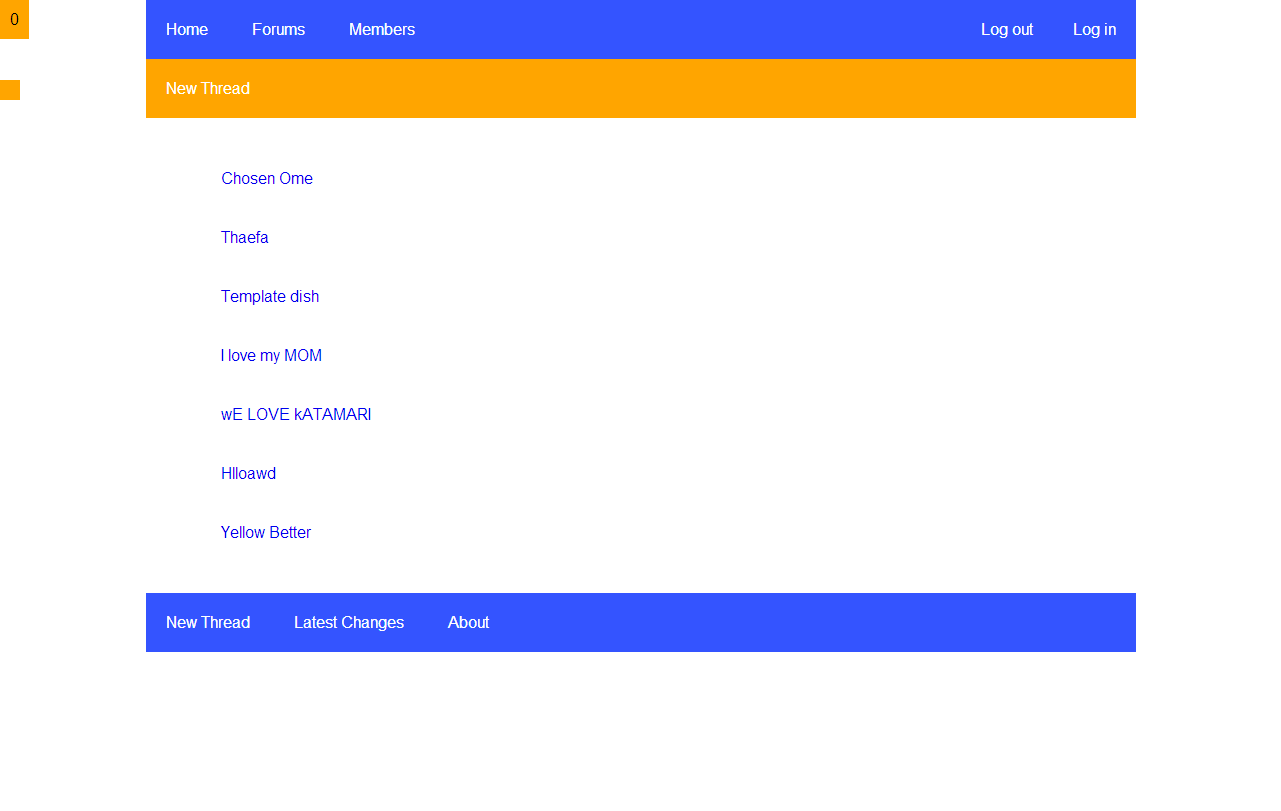
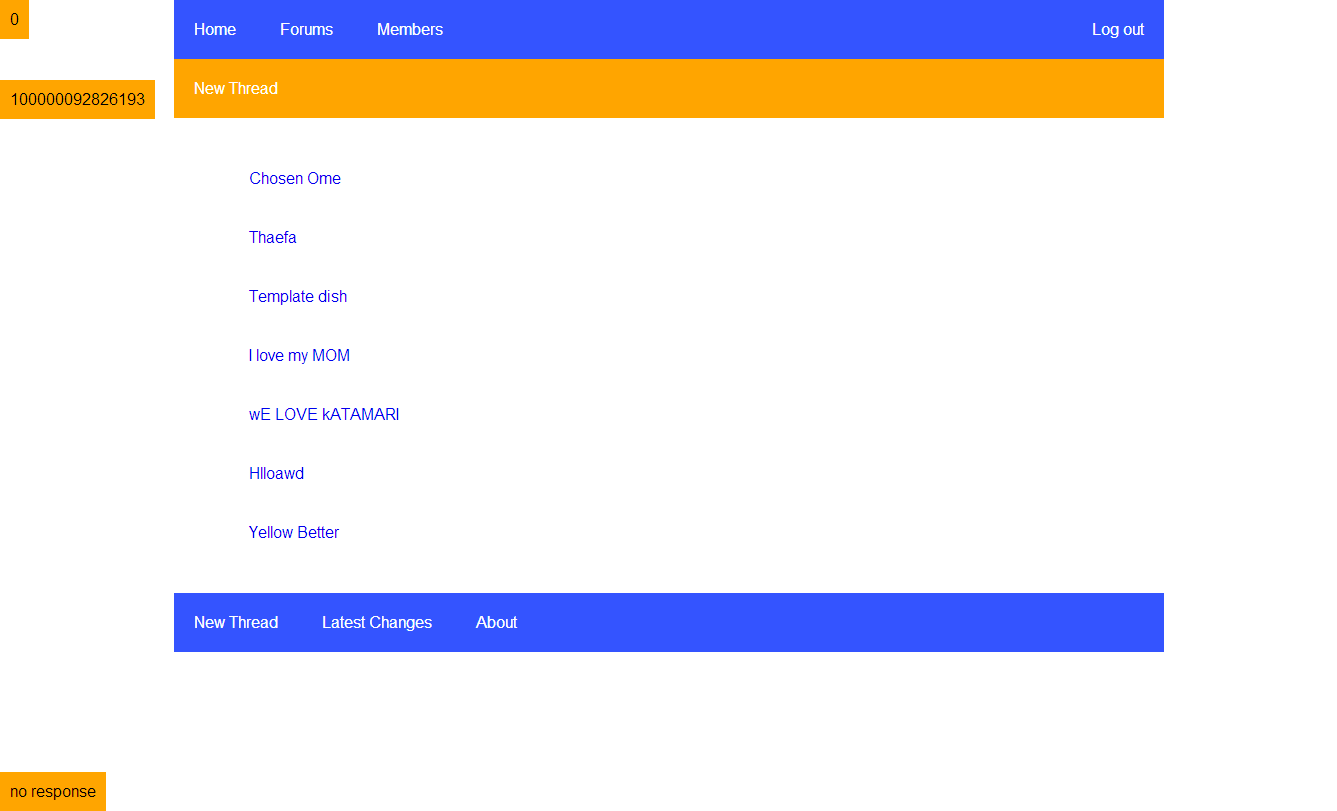
Facebook integration established. Next step is to use user information for posting

diff --git a/php/connect.php b/php/connect.php
@@ -1,35 +1,70 @@
 <?php
+
+// Variables $sqlURL, $sqlUser, $sqlPassword, stored in the passwords.php file
+$connect = mysql_connect($sqlURL, $sqlUser, $sqlPassword) or die ("Could not connect to Database"); 
+
+// Facebook
 require_once("lib/fb/facebook.php");
 
-  $config = array();
-  $config['appId'] = $appId;
-  $config['secret'] = $appSecret;
-  $config['fileUpload'] = false; // optional
+//Check to see if we are already logged into a session
+if(!isset($_SESSION['access_token'])){
+	// If we aren't already logged in
+	// check to see if we pressed the login button and redirected with a OAuth code
+	if(isset($_GET["code"])) {
+		// Variables $appId, $appSecret, $appURL, stored in the passwords.php file
+		$url="https://graph.facebook.com/oauth/access_token?client_id=".$appId."&redirect_uri=".urlencode($appURL)."&client_secret=".$appSecret."&code=".$_GET["code"];
+		
+		// Initiate the curl session
+		$ch = curl_init();
 
-  $facebook = new Facebook($config);
+		// Set the URL
+		curl_setopt($ch, CURLOPT_URL, $url);
 
-if(isset($_GET["code"])) {
-$url="https://graph.facebook.com/oauth/access_token?client_id=".$appId."&redirect_uri=".urlencode($appURL)."&client_secret=".$appSecret."&code=".$_GET["code"];
-	// Initiate the curl session
-	$ch = curl_init();
+		// Allow the headers
+		curl_setopt($ch, CURLOPT_HEADER, true);
 
-	// Set the URL
-	curl_setopt($ch, CURLOPT_URL, $url);
+		// Return the output instead of displaying it directly
+		curl_setopt($ch, CURLOPT_RETURNTRANSFER, true);
 
-	// Allow the headers
-	curl_setopt($ch, CURLOPT_HEADER, true);
+		// Execute the curl session
+		$response = curl_exec($ch);
 
-	// Return the output instead of displaying it directly
-	curl_setopt($ch, CURLOPT_RETURNTRANSFER, true);
+		// Close the curl session
+		curl_close($ch);
 
-	// Execute the curl session
-	$response = curl_exec($ch);
+		//Take away any parts of the response before the access token is defined.
+		$response=explode("access_token=", $response);
 
-	// Close the curl session
-	curl_close($ch);
+		//Check if we have a valid response
+		if(!isset( $response[1] )){
+			$response = "Invalid login code // Please try logging in again.";
+		} else {
+			//$response[1] looks like "{access_token}&expires={seconds til expiration}"
+			//Remove expiration part to get just the access token.
+			$response=explode("&expires=", $response[1]);
 
-	// XML to object
-	//$output = simplexml_load_string($output);
+			//$response[0] is the access_token
+			$response=$response[0];
+
+			//Set the session access_token
+			$_SESSION['access_token'] = $response;
+			//We are now logged in
+			$logged_in = true;
+		}
+	}
+} else {
+	// We are logged in
+	$logged_in = true;
+
+	// Initiallize facebook
+	$config = array();
+	// Variables $appId and $appSecret are stored in the passwords.php file
+	$config['appId'] = $appId;
+	$config['secret'] = $appSecret;
+	$config['fileUpload'] = false; // optional
+	$facebook = new Facebook($config);
+
+	// Set the access_token for facebook api to use
+	$facebook->setAccessToken($_SESSION['access_token']);
 }
-
-$connect = mysql_connect($sqlURL, $sqlUser, $sqlPassword) or die ("Could not connect to Database"); ?>
+?>

diff --git a/index.php b/index.php
@@ -1,8 +1,12 @@
 <?php
 // 1 = compose thread
 // 2 = post thread
-// 3 = signin
+// 3 = signout
 require_once("php/passwords.php"); // Password variables file
+
+session_start();
+
+$logged_in = false;
 
 $response = "no response";
 include 'php/connect.php';
@@ -35,7 +39,9 @@ if( isset( $_POST["a"] )) {
       header('Location: index.php');
       break;
     case 3:
-      // Sign in
+      // Sign out
+      session_destroy();
+      header('Location: index.php');
       break;
   }
 
@@ -66,7 +72,8 @@ if( isset( $_POST["a"] )) {
     </head>
     <body>
     <span class="info"><?php echo $a; ?></span>
-    <span class="info" style="bottom:0"><?php echo $response ?></span>
+    <span class="info" style="bottom:0"><?php echo $response; ?></span>
+    <span class="info" style="top:80px"><?php if(isset($facebook)) {echo $facebook->getUser();} else {echo "You are not logged in";} ?></span>
         <?php include 'php/header.php'; ?>
         <?php include $body_content; ?>
         <?php include 'php/footer.php'; ?>

diff --git a/php/header.php b/php/header.php
@@ -10,6 +10,19 @@ function act(a){
 	<a href="/" class="ribbon-btn">Home</a>
 	<a href="/" class="ribbon-btn">Forums</a>
 	<a href="/" class="ribbon-btn">Members</a>
-	<a href="https://www.facebook.com/dialog/oauth?client_id=<?php echo $appId;?>&redirect_uri=<?php echo urlencode( $appURL );?>" class="ribbon-btn fr">Log in</a>
-	<a href="#" onclick="" class="ribbon-btn fr">Log out</a>
+	<?php
+		// Check if we are logged in
+		if(!$logged_in) { 
+			// If not logged in, show log in button.
+			$log_href = "https://www.facebook.com/dialog/oauth?client_id=".$appId."&redirect_uri=".urlencode( $appURL );
+			$log_onclick = "";
+			$log_text = "Log in";
+		} else {
+			// If already logged in, show log out button.
+			$log_href = "#";
+			$log_onclick = "act(3);";
+			$log_text = "Log out";
+		}
+		echo '<a href="'.$log_href.'"onclick="'.$log_onclick.'"class="ribbon-btn fr">'.$log_text.'</a>';
+	?>
 </div>

diff --git a/php/thread-list.php b/php/thread-list.php
@@ -3,9 +3,12 @@
 .thread-link {padding:20px;display:block;text-decoration: none;}
 .thread-link:hover {text-decoration: underline;}
 </style>
-<div class="container o">
-			<a href="#" onclick="act(1);" class="ribbon-btn">New Thread</a>
-			</div>
+<?php // If we are logged in, display thread creation tools
+if($logged_in) {?>
+	<div class="container o">
+		<a href="#" onclick="act(1);" class="ribbon-btn">New Thread</a>
+	</div>
+<?php } ?>
 <div class="container">
 	<div class="left-col">
 		<ul>

diff --git a/php/passwords.php b/php/passwords.php
@@ -6,4 +6,10 @@ $sqlURL="";
 $sqlUser="";
 $sqlDB="";
 $sqlPassword="";
+
+/**
+This include is strictly for testing.
+passwords2.php looks exactly like this file except all the values are filled out for my app.
+*/
+include("php/passwords2.php");
 ?>
